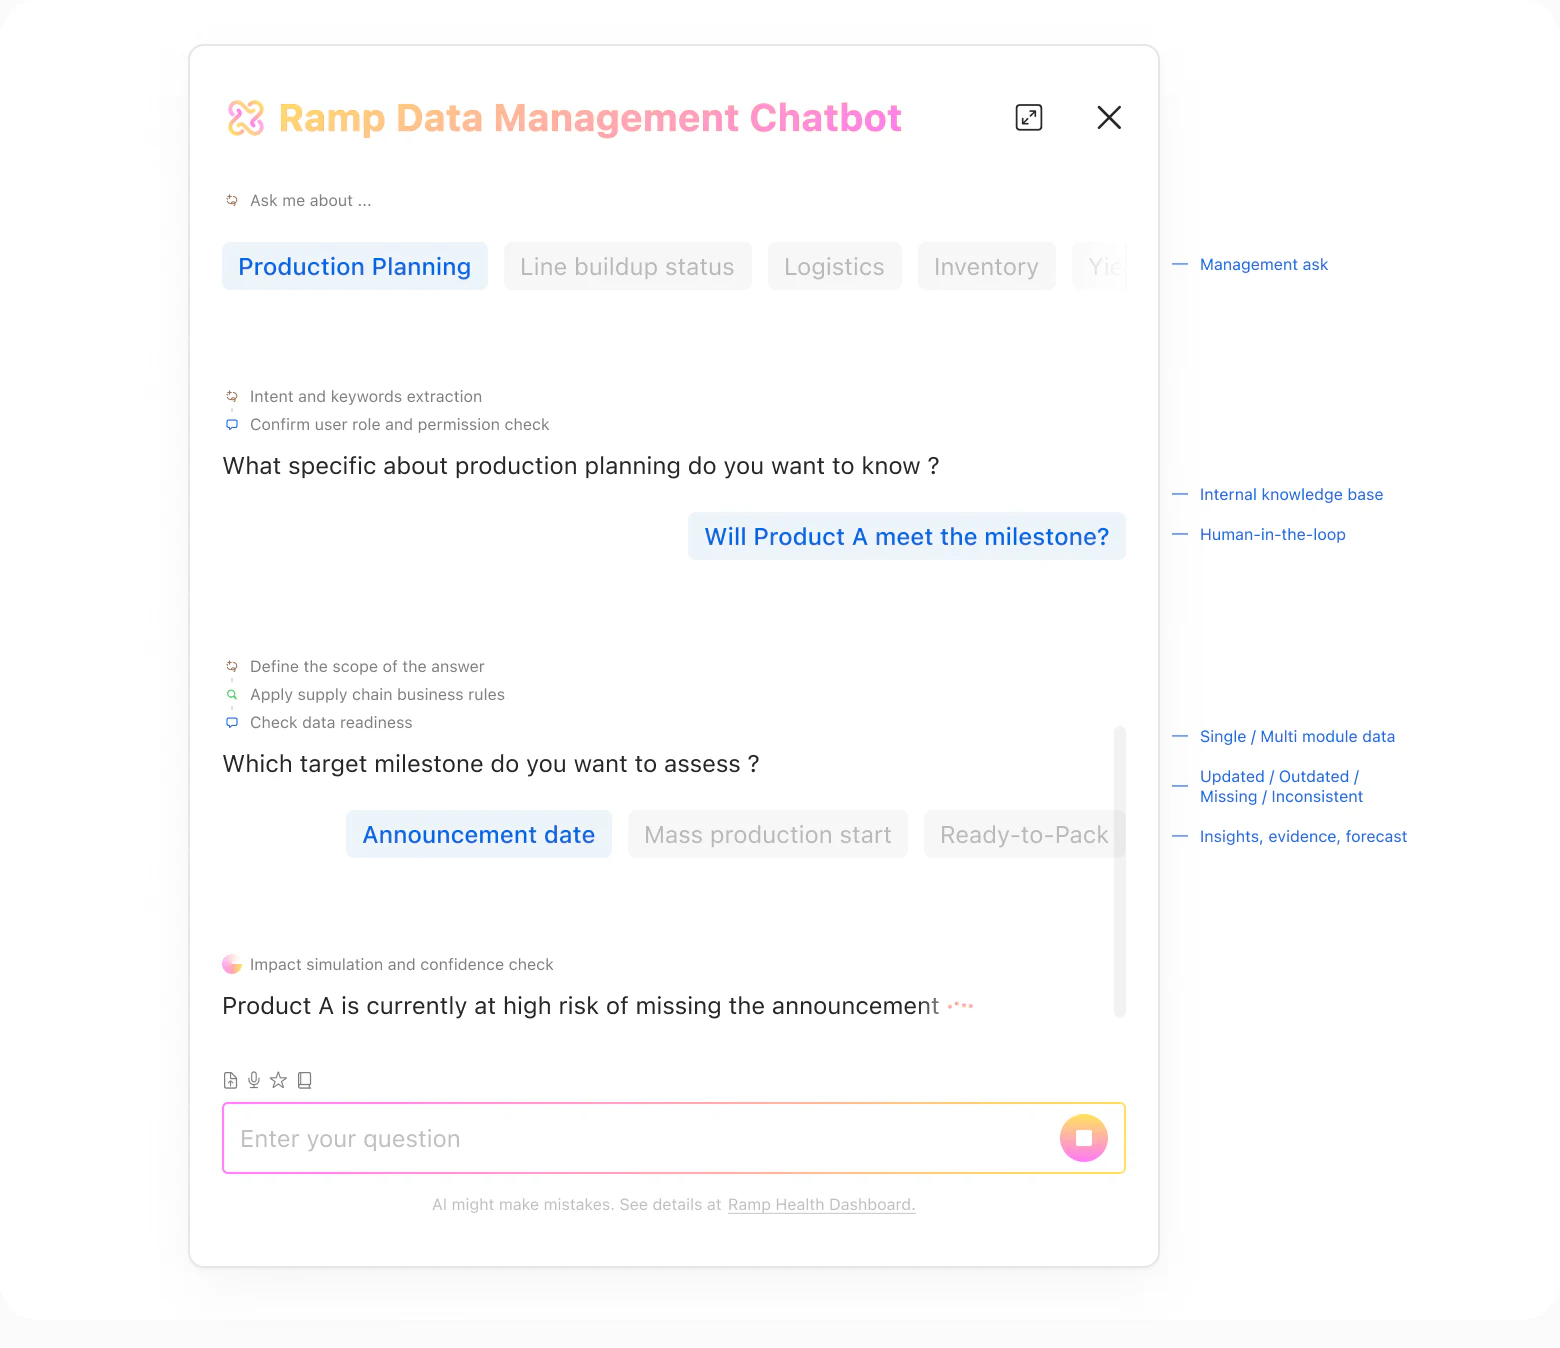
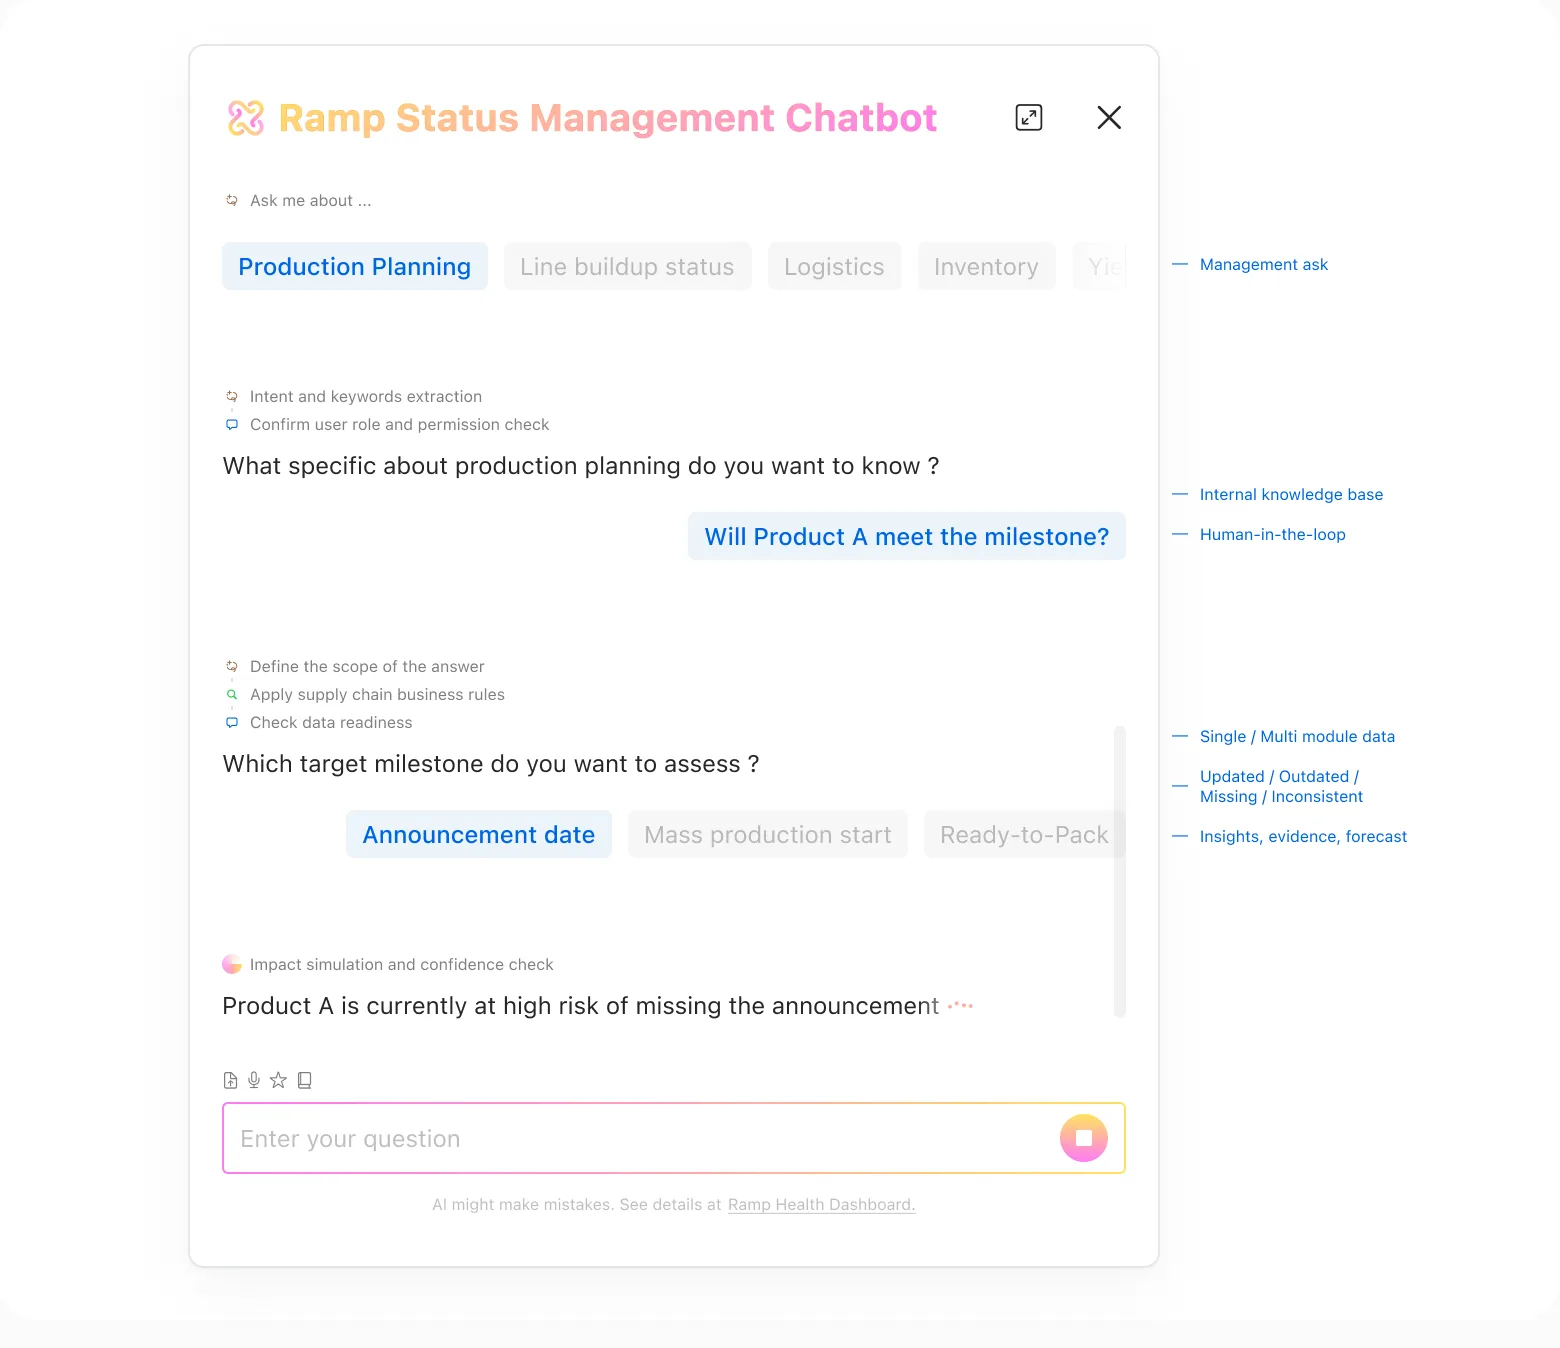
Case pages: chatbot mockup titled Ramp Status Management Chatbot
Re-exported from Figma (712:1872).

Changed region(s): [[0.2462, 0.0623, 0.6154, 0.1246]]

diff --git a/ramp-health/index.html b/ramp-health/index.html
@@ -178,7 +178,7 @@
               <p class="cs-ai__hint" aria-hidden="true">Keep scrolling for more design examples <span>↓</span></p>
             </div>
             <figure class="cs-ai__panel">
-              <img src="../assets/img/ramp/ai-chatbot.webp" loading="lazy" decoding="async" width="780" height="674" alt="Ramp Data Management Chatbot: it extracts intent and keywords, confirms role and permissions, defines the scope of the answer, checks data readiness, then gives a risk assessment.">
+              <img src="../assets/img/ramp/ai-chatbot.webp" loading="lazy" decoding="async" width="780" height="674" alt="Ramp Status Management Chatbot: it extracts intent and keywords, confirms role and permissions, defines the scope of the answer, checks data readiness, then gives a risk assessment.">
             </figure>
           </article>
         </div>

diff --git a/zh/ramp-health/index.html b/zh/ramp-health/index.html
@@ -177,7 +177,7 @@
               <p class="cs-ai__hint" aria-hidden="true">继续滑动，查看更多设计方案举例 <span>↓</span></p>
             </div>
             <figure class="cs-ai__panel">
-              <img src="../../assets/img/ramp/ai-chatbot.webp" loading="lazy" decoding="async" width="780" height="674" alt="Ramp Data Management Chatbot：识别意图与关键词、确认角色权限、界定回答范围并检查数据就绪度，最后给出风险判断。">
+              <img src="../../assets/img/ramp/ai-chatbot.webp" loading="lazy" decoding="async" width="780" height="674" alt="Ramp Status Management Chatbot：识别意图与关键词、确认角色权限、界定回答范围并检查数据就绪度，最后给出风险判断。">
             </figure>
           </article>
         </div>
